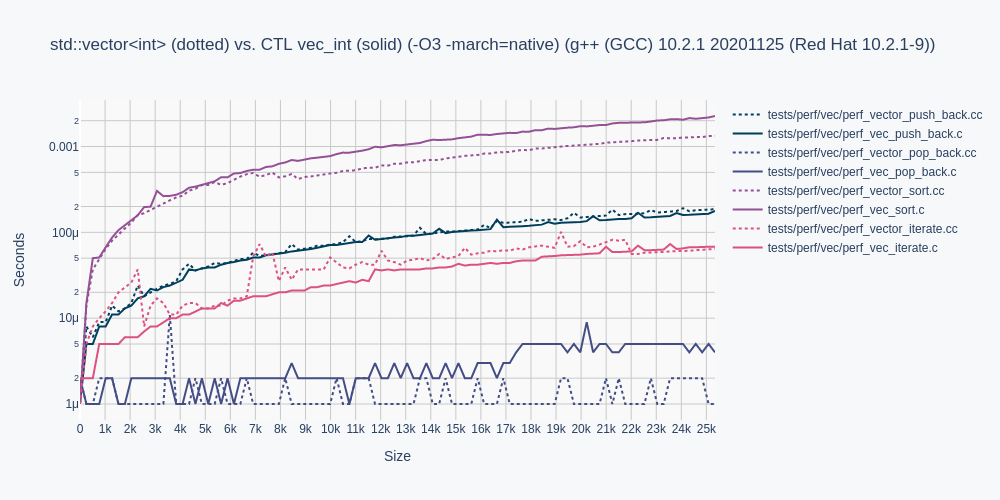
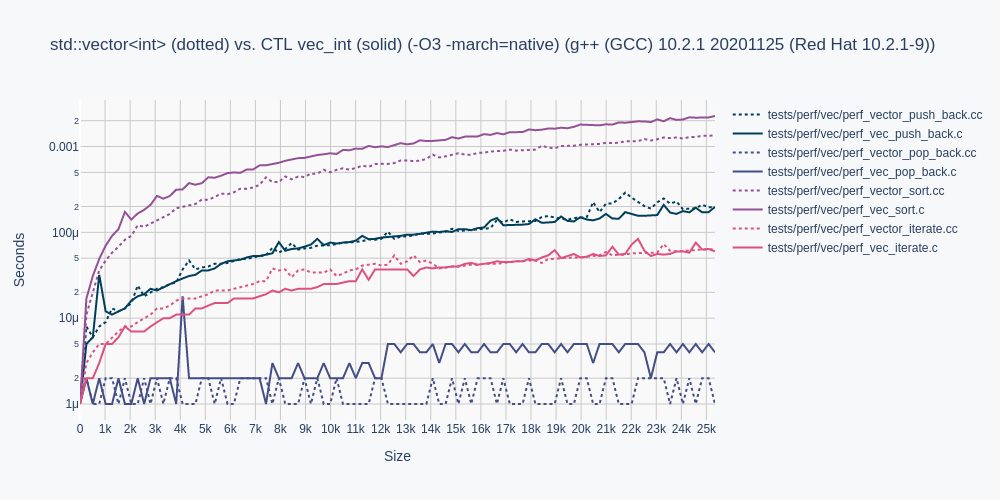
optimize list into connect_before and after
no run-time branches.
move adjacent funcs together.

diff --git a/ctl/list.h b/ctl/list.h
@@ -180,7 +180,7 @@ JOIN(A, disconnect)(A* self, B* node)
 }
 
 static inline void
-JOIN(A, connect)(A* self, B* position, B* node, int before)
+JOIN(A, connect_before)(A* self, B* position, B* node)
 {
     if(JOIN(A, empty)(self))
     {
@@ -190,26 +190,13 @@ JOIN(A, connect)(A* self, B* position, B* node, int before)
     else
     if (self->size < JOIN(A, max_size)())
     {
-        if(before)
-        {
-            node->next = position;
-            node->prev = position->prev;
-            if(position->prev)
-                position->prev->next = node;
-            position->prev = node;
-            if(position == self->head)
-                self->head = node;
-        }
-        else
-        {
-            node->prev = position;
-            node->next = position->next;
-            if(position->next)
-                position->next->prev = node;
-            position->next = node;
-            if(position == self->tail)
-                self->tail = node;
-        }
+        node->next = position;
+        node->prev = position->prev;
+        if(position->prev)
+            position->prev->next = node;
+        position->prev = node;
+        if(position == self->head)
+            self->head = node;
         self->size++;
     }
     /* error handling? silent ignore or stderr or assert or customizable.
@@ -220,24 +207,17 @@ JOIN(A, connect)(A* self, B* position, B* node, int before)
 }
 
 static inline void
-JOIN(A, push_back)(A* self, T value)
-{
-    B* node = JOIN(B, init)(value);
-    JOIN(A, connect)(self, self->tail, node, 0);
-}
-
-static inline void
 JOIN(A, push_front)(A* self, T value)
 {
     B* node = JOIN(B, init)(value);
-    JOIN(A, connect)(self, self->head, node, 1);
+    JOIN(A, connect_before)(self, self->head, node);
 }
 
 static inline void
-JOIN(A, transfer)(A* self, A* other, B* position, B* node, int before)
+JOIN(A, transfer_before)(A* self, A* other, B* position, B* node)
 {
     JOIN(A, disconnect)(other, node);
-    JOIN(A, connect)(self, position, node, before);
+    JOIN(A, connect_before)(self, position, node);
 }
 
 static inline void
@@ -265,7 +245,7 @@ static inline B*
 JOIN(A, insert)(A* self, B* pos, T value)
 {
     B* node = JOIN(B, init)(value);
-    JOIN(A, connect)(self, pos, node, 1);
+    JOIN(A, connect_before)(self, pos, node);
     return node;
 }
 
@@ -285,6 +265,40 @@ JOIN(A, free)(A* self)
     *self = JOIN(A, init)();
     self->compare = *compare;
     self->equal = *equal;
+}
+
+static inline void
+JOIN(A, connect_after)(A* self, B* position, B* node)
+{
+    if(JOIN(A, empty)(self))
+    {
+        self->head = self->tail = node;
+        self->size += 1;
+    }
+    else
+    if (self->size < JOIN(A, max_size)())
+    {
+        node->prev = position;
+        node->next = position->next;
+        if(position->next)
+            position->next->prev = node;
+        position->next = node;
+        if(position == self->tail)
+            self->tail = node;
+        self->size += 1;
+    }
+    /* error handling? silent ignore or stderr or assert or customizable.
+    else
+        assert (0 || "list size exceeded");
+        fprintf (stderr, "list size exceeded");
+    */
+}
+
+static inline void
+JOIN(A, push_back)(A* self, T value)
+{
+    B* node = JOIN(B, init)(value);
+    JOIN(A, connect_after)(self, self->tail, node);
 }
 
 static inline void
@@ -374,21 +388,21 @@ JOIN(A, remove)(A* self, T* value)
 static inline B*
 JOIN(A, emplace)(A* self, B* pos, T* value) {
     B* node = JOIN(B, init)(self->copy(value));
-    JOIN(A, connect)(self, pos, node, 1);
+    JOIN(A, connect_before)(self, pos, node);
     return pos->next;
 }
 
 static inline B*
 JOIN(A, emplace_front)(A* self, T* value) {
     B* node = JOIN(B, init)(self->copy(value));
-    JOIN(A, connect)(self, self->head, node, 1);
+    JOIN(A, connect_before)(self, self->head, node);
     return self->head;
 }
 
 static inline B*
 JOIN(A, emplace_back)(A* self, T* value) {
     B* node = JOIN(B, init)(self->copy(value));
-    JOIN(A, connect)(self, self->tail, node, 0);
+    JOIN(A, connect_after)(self, self->tail, node);
     return self->tail;
 }
 
@@ -399,7 +413,7 @@ JOIN(A, insert_count)(A* self, B* pos, size_t count, T value)
 {
     B* node = JOIN(B, init)(value);
     for (size_t i=0; i < count; i++)
-        JOIN(A, connect)(self, pos, node, 1);
+        JOIN(A, connect_before)(self, pos, node);
     return node;
 }
 
@@ -413,7 +427,7 @@ JOIN(A, insert_range)(A* self, B* pos, I* first, I* last)
     foreach(A, other, it)
     {
         node = JOIN(B, init)(*it.ref);
-        JOIN(A, connect)(self, pos, node, 1);
+        JOIN(A, connect_before)(self, pos, node);
     }
     return node;
 }
@@ -448,7 +462,15 @@ JOIN(A, splice)(A* self, B* pos, A* other)
         JOIN(A, swap)(self, other);
     else
         foreach(A, other, it)
-            JOIN(A, transfer)(self, other, pos, it.node, 1);
+            JOIN(A, transfer_before)(self, other, pos, it.node);
+}
+
+// only needed for merge
+static inline void
+JOIN(A, transfer_after)(A* self, A* other, B* position, B* node)
+{
+    JOIN(A, disconnect)(other, node);
+    JOIN(A, connect_after)(self, position, node);
 }
 
 #ifdef DEBUG
@@ -491,10 +513,10 @@ JOIN(A, merge)(A* self, A* other)
     {
         for(B* node = self->head; node; node = node->next)
             while(!JOIN(A, empty)(other) && self->compare(&node->value, &other->head->value))
-                JOIN(A, transfer)(self, other, node, other->head, 1);
+                JOIN(A, transfer_before)(self, other, node, other->head);
         // Remainder.
         while(!JOIN(A, empty)(other))
-            JOIN(A, transfer)(self, other, self->tail, other->head, 0);
+            JOIN(A, transfer_after)(self, other, self->tail, other->head);
     }
 }
 
@@ -511,7 +533,7 @@ JOIN(A, sort)(A* self)
         A* counter = NULL;
         do
         {
-            JOIN(A, transfer)(&carry, self, carry.head, self->head, 1);
+            JOIN(A, transfer_before)(&carry, self, carry.head, self->head);
             for(counter = temp; counter != fill && !JOIN(A, empty)(counter); counter++)
             {
                 JOIN(A, merge)(counter, &carry);

diff --git a/README.md b/README.md
@@ -340,6 +340,8 @@ hashmaps will be changed from chained lists to open addressing, thus no internal
 bucket methods, and even more faster, but pointers into it are disallowed.
 The `CTL_USET_CACHED_HASH` policy is still in work, for faster finds but more memory.
 
+Optimized list, seperate connect before and after methods.
+
 Work is ongoing for all `algorithms.h` and `ranges`, with full iterator support
 and `foreach_range`.
 

diff --git a/docs/index.md b/docs/index.md
@@ -341,6 +341,8 @@ hashmaps will be changed from chained lists to open addressing, thus no internal
 bucket methods, and even more faster, but pointers into it are disallowed.
 The `CTL_USET_CACHED_HASH` policy is still in work, for faster finds but more memory.
 
+Optimized list, seperate connect before and after methods.
+
 Work is ongoing for all `algorithms.h` and `ranges`, with full iterator support
 and `foreach_range`.
 
